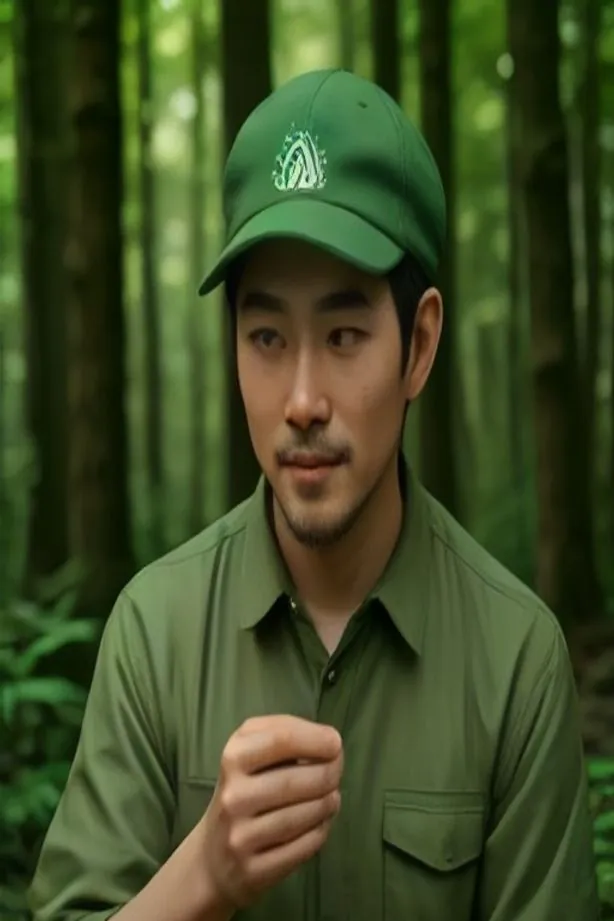
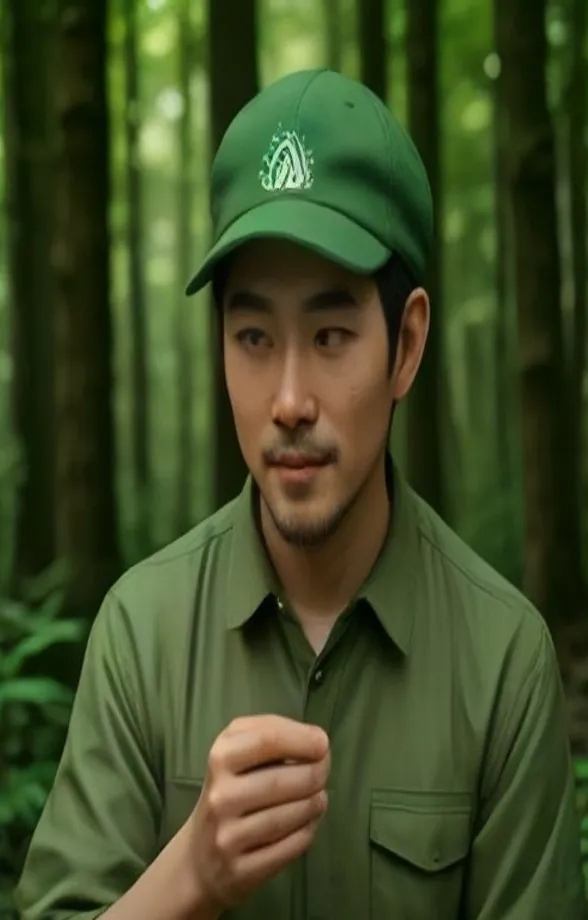
하하호호: NPC 사진을 원본 비율 그대로 (틀에 맞춰 자르거나 늘리지 않음)
- 프로필 틀(3:4 고정)·대화 화면 틀(2:3 고정)을 사진 원래 비율을 따르게 (object-fit: contain)
- AI 사진 9장을 생성 원본 비율(614×960)대로 다시 저장: 워터마크 줄만큼 옆도 같이 잘라 비율 유지, 크기 조정 없음

Claude-Session: https://claude.ai/code/session_016pMQCe6k5WT2zqNYfqiX6q

diff --git a/hahahoho/style.css b/hahahoho/style.css
@@ -237,7 +237,7 @@ h3 { margin: 14px 0 6px; font-size: 14px; color: var(--wood-d); }
 .npc { display: flex; gap: 12px; align-items: flex-start; }
 .npc .npc-face { width: 84px; height: 112px; flex: none; border: 2px solid var(--wood); border-radius: 10px; background: linear-gradient(#fff4dc, #f1dcaa); }
 .npc .npc-face.pixel { image-rendering: pixelated; padding: 4px 6px 0; }
-.npc .npc-face.photo { object-fit: cover; box-shadow: 0 2px 0 var(--wood-d); }
+.npc .npc-face.photo { height: auto; max-height: 160px; object-fit: contain; box-shadow: 0 2px 0 var(--wood-d); } /* 사진 원래 비율 그대로 */
 .npc .line { background: #fff; border: 2px solid var(--wood); border-radius: 10px; padding: 8px 10px; margin: 6px 0; font-size: 15px; }
 .hearts { color: #e0405a; letter-spacing: 1px; }
 .wp { display: inline-grid; place-items: center; width: 26px; height: 26px; border-radius: 50%; background: #9aa; color: #fff; }
@@ -347,10 +347,10 @@ body.hurt #game-root::after { content: ''; position: absolute; inset: 0; pointer
 .vn-x { position: absolute; top: calc(12px + var(--safe-t)); right: 12px; z-index: 3; width: 38px; height: 38px; border: 2px solid var(--wood-d); border-radius: 50%; background: rgba(255,255,255,.85); font-size: 20px; }
 .vn-badge { position: absolute; top: calc(16px + var(--safe-t)); left: 50%; transform: translateX(-50%); z-index: 3; background: #fff; border: 2px solid #e88aa8; color: #c0406a; border-radius: 99px; padding: 3px 12px; font-size: 13px; display: flex; align-items: center; gap: 4px; }
 .vn-stage { position: absolute; left: 0; right: 0; top: calc(60px + var(--safe-t)); bottom: 200px; display: flex; align-items: flex-end; justify-content: center; pointer-events: none; }
-.vn-portrait { height: 100%; max-height: 520px; aspect-ratio: 2 / 3; display: flex; align-items: flex-end; justify-content: center; animation: breathe 3.2s ease-in-out infinite; filter: drop-shadow(0 8px 18px rgba(80,40,60,.25)); }
-.vn-portrait .vn-face { width: 100%; height: 100%; }
-.vn-portrait .vn-face.photo { object-fit: cover; border-radius: 20px 20px 0 0; border: 3px solid #fff; border-bottom: 0; -webkit-mask-image: linear-gradient(#000 80%, transparent); mask-image: linear-gradient(#000 80%, transparent); }
-.vn-portrait .vn-face.pixel { image-rendering: pixelated; object-fit: contain; }
+.vn-portrait { height: 100%; max-height: 520px; max-width: 94vw; display: flex; align-items: flex-end; justify-content: center; animation: breathe 3.2s ease-in-out infinite; filter: drop-shadow(0 8px 18px rgba(80,40,60,.25)); }
+.vn-portrait .vn-face { height: 100%; width: auto; max-width: 100%; } /* 사진 원래 비율 그대로 (틀에 맞춰 늘리지 않음) */
+.vn-portrait .vn-face.photo { object-fit: contain; border-radius: 20px 20px 0 0; border: 3px solid #fff; border-bottom: 0; -webkit-mask-image: linear-gradient(#000 80%, transparent); mask-image: linear-gradient(#000 80%, transparent); }
+.vn-portrait .vn-face.pixel { image-rendering: pixelated; object-fit: contain; aspect-ratio: 2 / 3; }
 .vn-portrait.bounce { animation: vbounce .45s ease-out, breathe 3.2s ease-in-out .45s infinite; }
 .vn-portrait.shake { animation: vshake .4s ease-in-out, breathe 3.2s ease-in-out .4s infinite; }
 @keyframes breathe { 50% { transform: translateY(-4px); } }

diff --git a/hahahoho/src/version.js b/hahahoho/src/version.js
@@ -1,2 +1,2 @@
 // 앱 버전. 배포할 때마다 version.json 과 같이 올린다 (다르면 테스트가 실패한다).
-export const APP_VERSION = '2026.09.29-1';
+export const APP_VERSION = '2026.09.29-2';
